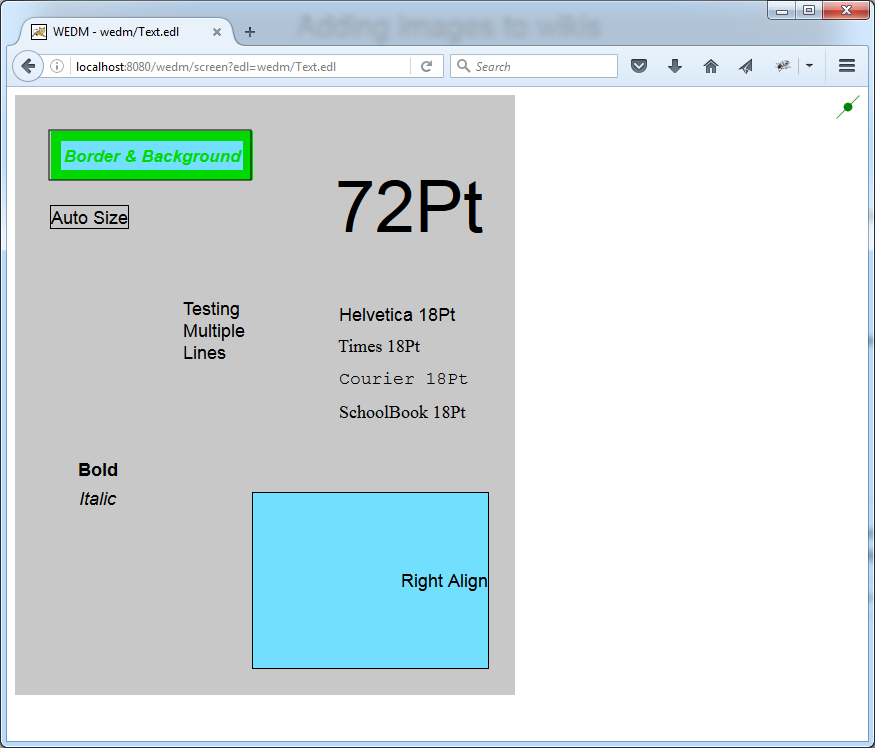
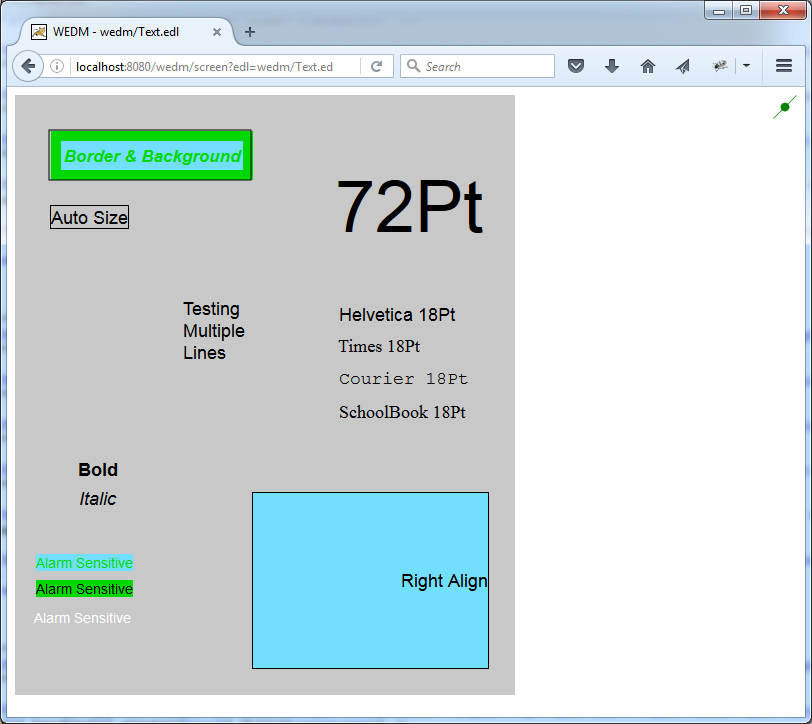
Initial support for alarm sensitive Text

diff --git a/web/resources/js/screen.js b/web/resources/js/screen.js
@@ -449,6 +449,72 @@ jlab.wedm.ShapePvWidget.prototype.handleAlarmUpdate = function () {
     }
 };
 
+jlab.wedm.StaticTextPvWidget = function (id, pvSet) {
+    jlab.wedm.PvWidget.call(this, id, pvSet);
+};
+
+jlab.wedm.StaticTextPvWidget.prototype = Object.create(jlab.wedm.PvWidget.prototype);
+jlab.wedm.StaticTextPvWidget.prototype.constructor = jlab.wedm.StaticTextPvWidget;
+
+jlab.wedm.StaticTextPvWidget.prototype.handleInfo = function (info) {
+
+    var $obj = $("#" + this.id);
+
+    if (!info.connected) {
+        $obj.css("color", jlab.wedm.disconnectedAlarmColor);
+        $obj.attr("background-color", "transparent");
+    }
+};
+
+jlab.wedm.StaticTextPvWidget.prototype.handleAlarmUpdate = function () {
+    var pv = this.alarmPvs[0],
+            value = this.pvNameToValueMap[pv],
+            $obj = $("#" + this.id),
+            hihi = $obj.attr("data-hihi"),
+            high = $obj.attr("data-high"),
+            low = $obj.attr("data-low"),
+            lolo = $obj.attr("data-lolo"),
+            fgAlarm = $obj.attr("data-fg-alarm") === "true",
+            bgAlarm = $obj.attr("data-bg-alarm") === "true";
+
+    if (typeof hihi !== 'undefined' && value > hihi) {
+        if (fgAlarm) {
+            $obj.css("color", jlab.wedm.majorAlarmColor);
+        }
+        if (bgAlarm) {
+            $obj.css("background-color", jlab.wedm.majorAlarmColor);
+        }
+    } else if (typeof high !== 'undefined' && value > high) {
+        if (fgAlarm) {
+            $obj.css("color", jlab.wedm.minorAlarmColor);
+        }
+        if (bgAlarm) {
+            $obj.css("background-color", jlab.wedm.minorAlarmColor);
+        }
+    } else if (typeof lolo !== 'undefined' && value < lolo) {
+        if (fgAlarm) {
+            $obj.css("color", jlab.wedm.minorAlarmColor);
+        }
+        if (bgAlarm) {
+            $obj.css("background-color", jlab.wedm.minorAlarmColor);
+        }
+    } else if (typeof low !== 'undefined' && value < low) {
+        if (fgAlarm) {
+            $obj.css("color", jlab.wedm.majorAlarmColor);
+        }
+        if (bgAlarm) {
+            $obj.css("background-color", jlab.wedm.majorAlarmColor);
+        }
+    } else {
+        if (fgAlarm) {
+            $obj.css("color", jlab.wedm.noAlarmColor);
+        }
+        if (bgAlarm) {
+            $obj.css("background-color", jlab.wedm.noAlarmColor);
+        }
+    }
+};
+
 var monitoredPvs = null,
         pvWidgetMap = null;
 
@@ -625,6 +691,8 @@ $(function () {
                     $obj.attr("class").indexOf("ActiveLine") > -1 ||
                     $obj.attr("class").indexOf("ActiveArc") > -1) {
                 widget = new jlab.wedm.ShapePvWidget(id, pvSet);
+            } else if($obj.attr("class").indexOf("ActiveXText") > -1) {
+                widget = new jlab.wedm.StaticTextPvWidget(id, pvSet);
             } else {
                 /*console.log("other widget");*/
                 widget = new jlab.wedm.PvWidget(id, pvSet);

diff --git a/src/java/org/jlab/wedm/persistence/model/ScreenObject.java b/src/java/org/jlab/wedm/persistence/model/ScreenObject.java
@@ -46,6 +46,8 @@ public class ScreenObject {
     public boolean indicatorAlarm = false;  
     public boolean lineAlarm = false;
     public boolean fillAlarm = false;
+    public boolean fgAlarm = false;
+    public boolean bgAlarm = false;
     public Boolean horizontal = null;    //ChoiceButton default = false, BarMeter default = true.
     public EDLFont font;
     public String controlPv;
@@ -123,6 +125,14 @@ public class ScreenObject {
         if(fillAlarm) {
             attributes.put("data-fill-alarm", "true");
         }                
+        
+        if(fgAlarm) {
+            attributes.put("data-fg-alarm", "true");
+        }     
+        
+        if(bgAlarm) {
+            attributes.put("data-bg-alarm", "true");
+        }                    
         
         if(max != null) {
             attributes.put("data-max", String.valueOf(max));

diff --git a/src/java/org/jlab/wedm/persistence/io/ScreenParser.java b/src/java/org/jlab/wedm/persistence/io/ScreenParser.java
@@ -325,6 +325,12 @@ public class ScreenParser extends EDMParser {
                             case "lineAlarm":
                                 last.lineAlarm = true;
                                 break;
+                            case "fgAlarm":
+                                last.fgAlarm = true;
+                                break;
+                            case "bgAlarm":
+                                last.bgAlarm = true;
+                                break;
                             case "limitsFromDb":
                                 last.limitsFromDb = true;
                                 break;
